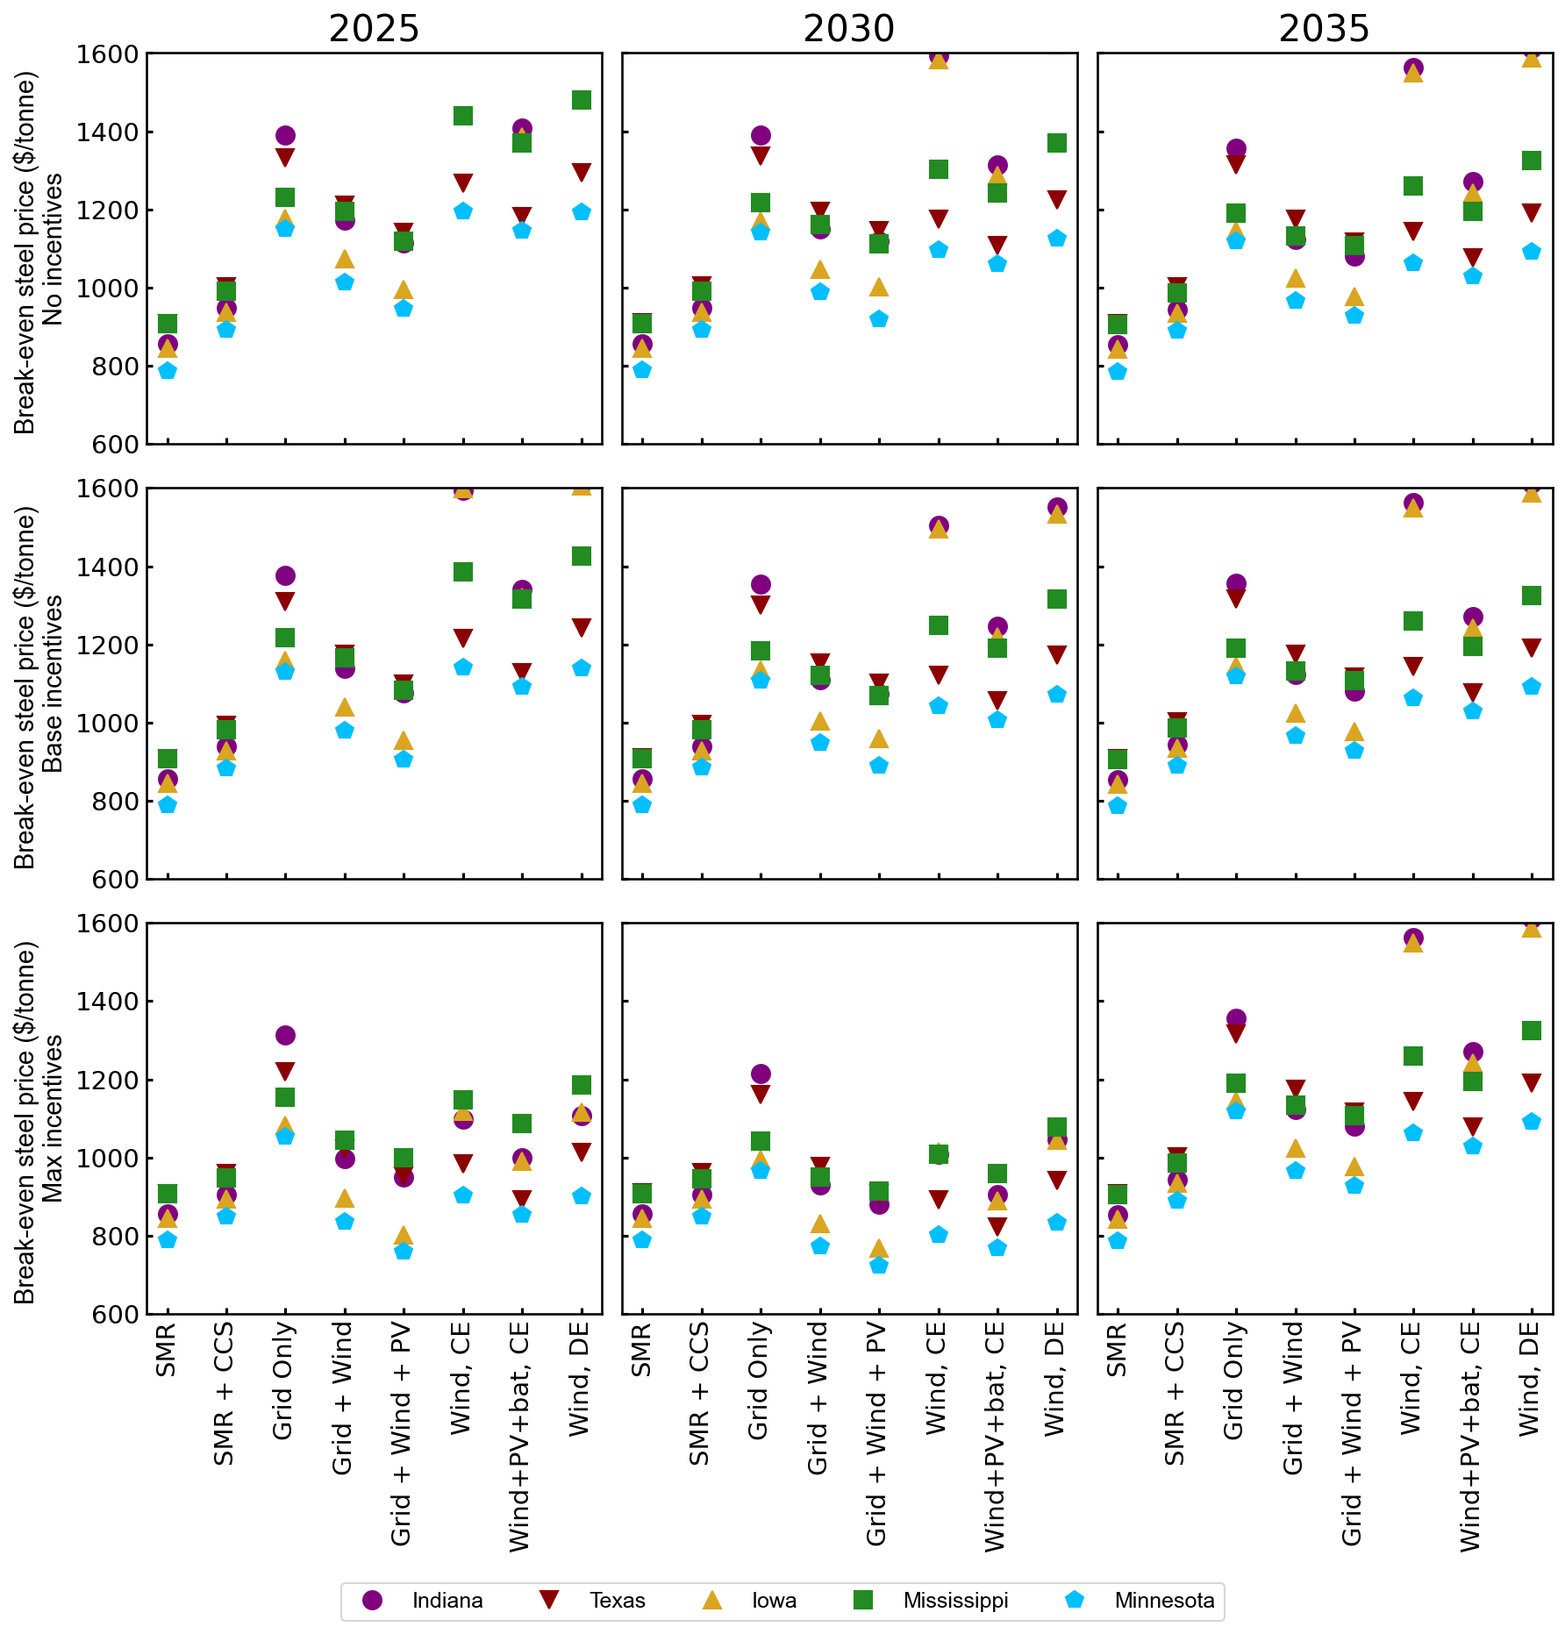
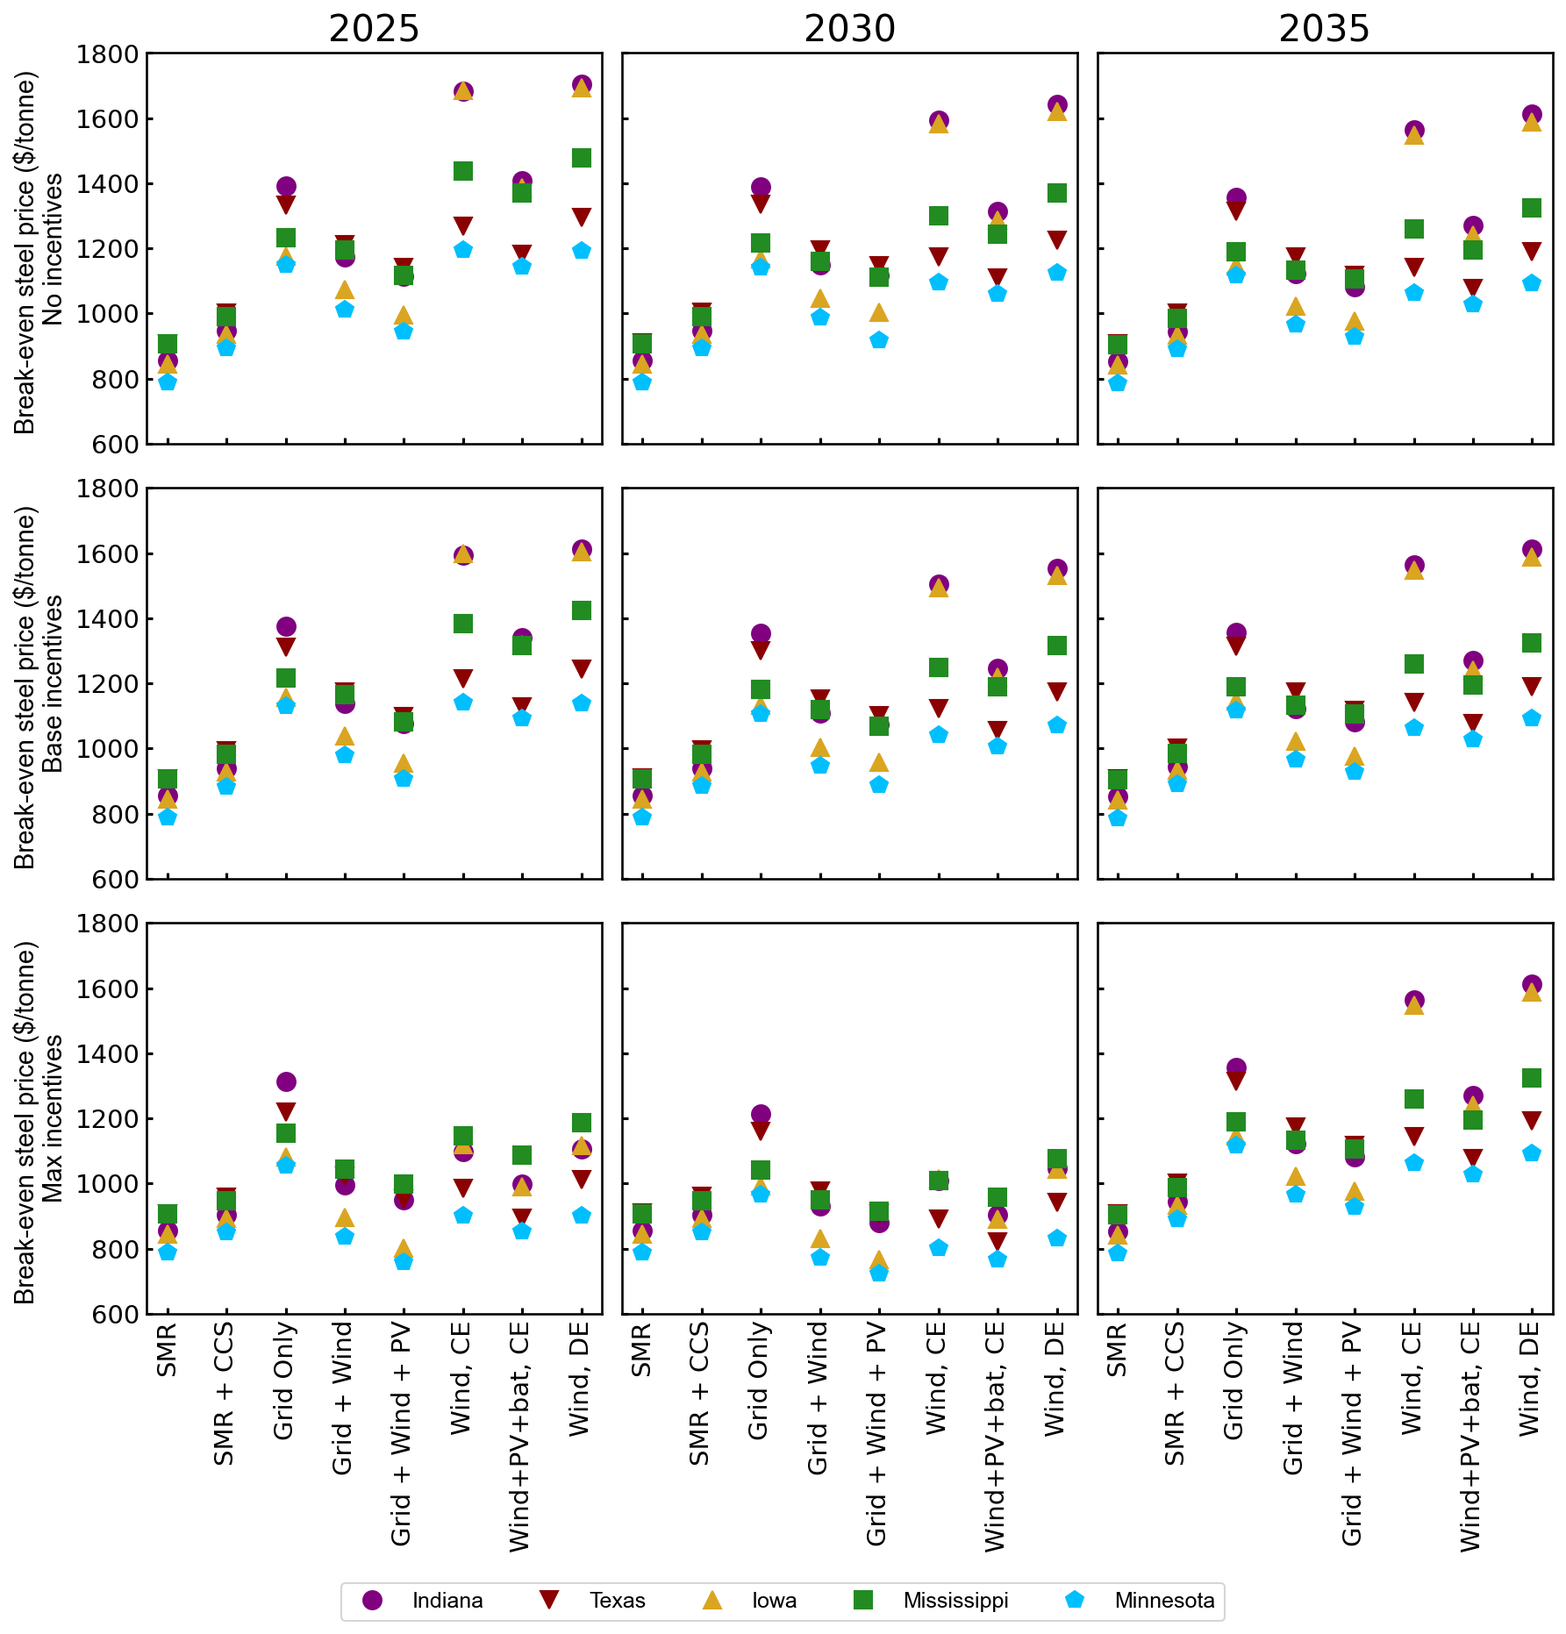
Updated incentives and implemented solar ITC toggle

diff --git a/src/ereznic2/run_profast_for_hydrogen.py b/src/ereznic2/run_profast_for_hydrogen.py
@@ -22,8 +22,8 @@ pf = ProFAST.ProFAST()
 def run_profast_for_hydrogen(hopp_dict,electrolyzer_size_mw,H2_Results,\
                             electrolyzer_system_capex_kw,user_defined_time_between_replacement,electrolyzer_energy_kWh_per_kg,hydrogen_storage_capacity_kg,hydrogen_storage_cost_USDprkg,\
                             capex_desal,opex_desal,plant_life,water_cost,wind_size_mw,solar_size_mw,storage_size_mw,renewable_plant_cost_info,wind_om_cost_kw,hybrid_plant,\
-                            grid_connection_scenario, atb_year, site_name, policy_option, energy_to_electrolyzer, combined_pv_wind_power_production_hopp,combined_pv_wind_curtailment_hopp,\
-                            energy_shortfall_hopp, elec_price,grid_prices_interpolated_USDperkwh, grid_price_scenario,user_defined_stack_replacement_time,use_optimistic_pem_efficiency):
+                            grid_connection_scenario, atb_year, site_name, policy_option, policy, energy_to_electrolyzer, combined_pv_wind_power_production_hopp,combined_pv_wind_curtailment_hopp,\
+                            energy_shortfall_hopp, elec_price,grid_prices_interpolated_USDperkwh, grid_price_scenario,user_defined_stack_replacement_time,use_optimistic_pem_efficiency,wind_annual_energy_MWh,solar_annual_energy_MWh,solar_ITC): 
     # mwh_to_kwh = 0.001
     # plant_life=useful_life
     # electrolyzer_system_capex_kw = electrolyzer_capex_kw
@@ -105,6 +105,7 @@ def run_profast_for_hydrogen(hopp_dict,electrolyzer_size_mw,H2_Results,\
         energy_from_grid_pr_yr = energy_used_per_year_kWhpryr - AEP_renewables
         # grid_electricity_useage_kWhpkg=np.mean(energy_from_grid_pr_yr/h2prod_per_year_kgpryr)
         ren_electricity_useage_kWhpkg = AEP_renewables/h2prod_per_year_kgpryr
+        wind_electricity_useage_kWhpkg = wind_annual_energy_MWh*1000/h2prod_per_year_kgpryr
         ren_frac = AEP_renewables/energy_used_per_year_kWhpryr
         grid_cost_pr_yr_USDprkg = grid_price_per_yr*energy_from_grid_pr_yr/h2prod_per_year_kgpryr
         grid_prices_interpolated_USDperkg = dict(zip(grid_cost_keys,grid_cost_pr_yr_USDprkg))
@@ -114,6 +115,7 @@ def run_profast_for_hydrogen(hopp_dict,electrolyzer_size_mw,H2_Results,\
         # grid_electricity_useage_kWhpkg=0
         ren_frac = 1
         ren_electricity_useage_kWhpkg =AEP_renewables/h2prod_per_year_kgpryr
+        wind_electricity_useage_kWhpkg = wind_annual_energy_MWh*1000/h2prod_per_year_kgpryr
         grid_prices_interpolated_USDperkg = dict(zip(grid_cost_keys,np.zeros(len(grid_cost_keys))))
     #new changes end here
 
@@ -134,18 +136,30 @@ def run_profast_for_hydrogen(hopp_dict,electrolyzer_size_mw,H2_Results,\
                 if policy_option == 'no-policy':
                     Ren_PTC[year] = 0
                 elif policy_option == 'base':
-                    Ren_PTC[year] = 0.0051 * ren_electricity_useage_kWhpkg[y_idx]#np.sum(energy_to_electrolyzer)/ (H2_Results['hydrogen_annual_output'])
+                    if solar_ITC == True:
+                        Ren_PTC[year] = policy['Wind PTC'] * wind_electricity_useage_kWhpkg[y_idx]
+                    else:
+                        Ren_PTC[year] = policy['Wind PTC'] * ren_electricity_useage_kWhpkg[y_idx]#np.sum(energy_to_electrolyzer)/ (H2_Results['hydrogen_annual_output'])
                 elif policy_option == 'max':
-                    Ren_PTC[year] = 0.03072 * ren_electricity_useage_kWhpkg[y_idx]#np.sum(energy_to_electrolyzer)/ (H2_Results['hydrogen_annual_output'])
+                    if solar_ITC == True:
+                        Ren_PTC[year] = policy['Wind PTC'] * wind_electricity_useage_kWhpkg[y_idx]
+                    else:
+                        Ren_PTC[year] = policy['Wind PTC'] * ren_electricity_useage_kWhpkg[y_idx]#np.sum(energy_to_electrolyzer)/ (H2_Results['hydrogen_annual_output'])
             elif grid_connection_scenario == 'hybrid-grid':
                 electrolysis_total_EI_policy[year] = 0 # Basically this is not used for hybrid-grid
                 if policy_option == 'no-policy':
                     Ren_PTC[year] = 0
                 elif policy_option == 'base':
-                    Ren_PTC[year] = 0.0051  * ren_electricity_useage_kWhpkg[y_idx]#energy_from_renewables / (H2_Results['hydrogen_annual_output'])
+                    if solar_ITC == True:
+                        Ren_PTC[year] = policy['Wind PTC'] * wind_electricity_useage_kWhpkg[y_idx]
+                    else:
+                        Ren_PTC[year] = policy['Wind PTC']  * ren_electricity_useage_kWhpkg[y_idx]#energy_from_renewables / (H2_Results['hydrogen_annual_output'])
                     #Ren_PTC = 0.0051  * np.sum(energy_to_electrolyzer)/ (H2_Results['hydrogen_annual_output']) # We will need to fix this by introducing ren_frac multiplier to denominator when HOPP changes to dealing with grid cases are changed
                 elif policy_option == 'max':
-                    Ren_PTC[year] = 0.03072 * ren_electricity_useage_kWhpkg[y_idx]#energy_from_renewables/ (H2_Results['hydrogen_annual_output'])
+                    if solar_ITC == True:
+                        Ren_PTC[year] = policy['Wind PTC'] * wind_electricity_useage_kWhpkg[y_idx]
+                    else:
+                        Ren_PTC[year] = policy['Wind PTC'] * ren_electricity_useage_kWhpkg[y_idx]#energy_from_renewables/ (H2_Results['hydrogen_annual_output'])
                     # Ren_PTC = 0.03072 * np.sum(energy_to_electrolyzer)/ (H2_Results['hydrogen_annual_output']) # We will need to fix this by introducing ren_frac multiplier to denominator when HOPP changes to dealing with grid cases are changed
         elif atb_year == 2035:
                 Ren_PTC[year]=0
@@ -366,7 +380,10 @@ def run_profast_for_hydrogen(hopp_dict,electrolyzer_size_mw,H2_Results,\
     pf.set_params('debt type','Revolving debt')
     pf.set_params('debt interest rate',financial_assumptions['debt interest rate'])
     pf.set_params('cash onhand',financial_assumptions['cash onhand'])
-    pf.set_params('one time cap inct',{'value':ITC*(capex_storage_installed+capex_battery_installed),'depr type':'MACRS','depr period':7,'depreciable':True})
+    if solar_ITC == True:
+        pf.set_params('one time cap inct',{'value':ITC*(capex_storage_installed+capex_battery_installed+capex_solar_installed),'depr type':'MACRS','depr period':7,'depreciable':True})
+    else:
+        pf.set_params('one time cap inct',{'value':ITC*(capex_storage_installed+capex_battery_installed),'depr type':'MACRS','depr period':7,'depreciable':True})
     #pf.set_params('one time cap inct',{'value':ITC*capex_solar_installed,'depr type':'MACRS','depr period':7,'depreciable':True})
     #pf.set_params('one time cap inct',{'value':ITC*capex_battery_installed,'depr type':'MACRS','depr period':7,'depreciable':True})
 

diff --git a/src/ereznic2/green_steel_ammonia_solar_parametric_sweep.py b/src/ereznic2/green_steel_ammonia_solar_parametric_sweep.py
@@ -57,7 +57,7 @@ def solar_storage_param_sweep(project_path,arg_list,save_best_solar_case_pickle,
     5. Model Development Required:
     - Floating Electrolyzer Platform
     """
-    [atb_year, policy_option,hopp_dict_init,
+    [atb_year, policy_option,policy,hopp_dict_init,
      electrolysis_scale,scenario,\
      parent_path,results_dir,\
      grid_connected_hopp,grid_connection_scenario, grid_price_scenario,\
@@ -67,7 +67,7 @@ def solar_storage_param_sweep(project_path,arg_list,save_best_solar_case_pickle,
      electrolyzer_size_mw,n_pem_clusters,pem_control_type,
      electrolyzer_capex_kw,electrolyzer_component_costs_kw,wind_plant_degradation_power_decrease,electrolyzer_energy_kWh_per_kg, time_between_replacement,
      user_defined_stack_replacement_time,use_optimistic_pem_efficiency,electrolyzer_degradation_penalty,storage_capacity_multiplier,hydrogen_production_capacity_required_kgphr,\
-     electrolyzer_model_parameters,electricity_production_target_MWhpyr,turbine_rating,electrolyzer_degradation_power_increase,cluster_cap_mw,interconnection_size_mw] = arg_list
+     electrolyzer_model_parameters,electricity_production_target_MWhpyr,turbine_rating,electrolyzer_degradation_power_increase,cluster_cap_mw,interconnection_size_mw,solar_ITC] = arg_list
 
     electrolyzer_installation_factor = 12/100
     electrolyzer_direct_cost_kw = electrolyzer_capex_kw*(1+electrolyzer_installation_factor)
@@ -415,7 +415,19 @@ def solar_storage_param_sweep(project_path,arg_list,save_best_solar_case_pickle,
                 plot_grid,
             )
 
+            if solar_size_mw > 0:
+                cf_solar = hybrid_plant.pv.capacity_factor/100
+                solar_annual_energy_MWh = hybrid_plant.annual_energies['pv']/1000
+            else:
+                cf_solar = 0
+                solar_annual_energy_MWh = 0
 
+            if wind_size_mw > 0:
+                cf_wind = hybrid_plant.wind.capacity_factor/100
+                wind_annual_energy_MWh = hybrid_plant.annual_energies['wind']/1000
+            else:
+                cf_wind = 0
+                wind_annual_energy_MWh = 0
 
             # Step #: Calculate hydrogen pipe costs for distributed case
             if electrolysis_scale == 'Distributed':
@@ -579,8 +591,8 @@ def solar_storage_param_sweep(project_path,arg_list,save_best_solar_case_pickle,
             h2_solution,h2_summary,h2_price_breakdown,lcoh_breakdown,electrolyzer_installed_cost_kw,elec_cf,ren_frac,electrolyzer_total_EI_policy_grid,electrolysis_total_EI_policy_offgrid,H2_PTC,Ren_PTC,h2_production_capex = run_profast_for_hydrogen. run_profast_for_hydrogen(hopp_dict,electrolyzer_size_mw,H2_Results,\
                                             electrolyzer_capex_kw,time_between_replacement,electrolyzer_energy_kWh_per_kg,hydrogen_storage_capacity_kg,hydrogen_storage_cost_USDprkg,\
                                             desal_capex,desal_opex,useful_life,water_cost,wind_size_mw,solar_size_mw,storage_size_mw,renewable_plant_cost,wind_om_cost_kw,grid_connected_hopp,\
-                                            grid_connection_scenario, atb_year, site_name, policy_option, electrical_generation_timeseries, combined_pv_wind_power_production_hopp,combined_pv_wind_curtailment_hopp,\
-                                            energy_shortfall_hopp,elec_price, grid_prices_interpolated_USDperkwh,grid_price_scenario,user_defined_stack_replacement_time,use_optimistic_pem_efficiency)
+                                            grid_connection_scenario, atb_year, site_name, policy_option,policy,electrical_generation_timeseries, combined_pv_wind_power_production_hopp,combined_pv_wind_curtailment_hopp,\
+                                            energy_shortfall_hopp,elec_price, grid_prices_interpolated_USDperkwh,grid_price_scenario,user_defined_stack_replacement_time,use_optimistic_pem_efficiency,wind_annual_energy_MWh,solar_annual_energy_MWh,solar_ITC)
 
             lcoh_init = h2_solution['price']
             if save_param_sweep_summary:

diff --git a/src/ereznic2/green_steel_ammonia_run_scenarios.py b/src/ereznic2/green_steel_ammonia_run_scenarios.py
@@ -64,7 +64,8 @@ def batch_generator_kernel(arg_list):
         run_pv_battery_sweep,
         electrolyzer_degradation_penalty,
         pem_control_type,
-        storage_capacity_multiplier
+        storage_capacity_multiplier,
+        solar_ITC
     ] = arg_list
 
     hopp_path = os.path.dirname(os.path.abspath(hopp.__file__))
@@ -480,7 +481,7 @@ def batch_generator_kernel(arg_list):
     if grid_connection_scenario !='grid-only':
         if run_pv_battery_sweep:
 
-            inputs_for_sweep=[atb_year,policy_option,hopp_dict,\
+            inputs_for_sweep=[atb_year,policy_option,policy[i],hopp_dict,\
             electrolysis_scale,scenario,project_path,results_dir,\
             grid_connected_hopp,grid_connection_scenario,grid_price_scenario,\
             site_df,sample_site,site,site_location,\
@@ -489,7 +490,7 @@ def batch_generator_kernel(arg_list):
             electrolyzer_size_mw,n_pem_clusters,pem_control_type,\
             electrolyzer_capex_kw,electrolyzer_component_costs_kw,wind_plant_degradation_power_decrease,electrolyzer_energy_kWh_per_kg,time_between_replacement,\
             user_defined_stack_replacement_time,use_optimistic_pem_efficiency,electrolyzer_degradation_penalty,storage_capacity_multiplier,hydrogen_production_capacity_required_kgphr,\
-            electrolyzer_model_parameters,electricity_production_target_MWhpyr,turbine_rating,electrolyzer_degradation_power_increase,cluster_cap_mw,interconnection_size_mw]
+            electrolyzer_model_parameters,electricity_production_target_MWhpyr,turbine_rating,electrolyzer_degradation_power_increase,cluster_cap_mw,interconnection_size_mw,solar_ITC]
             #if solar and battery size lists are set to 'None' then defaults will be used
             #
             lcoh,hopp_dict,best_result_data,param_sweep_tracker,combined_pv_wind_power_production_hopp,combined_pv_wind_storage_power_production_hopp,\
@@ -952,8 +953,8 @@ def batch_generator_kernel(arg_list):
         h2_solution,h2_summary,profast_h2_price_breakdown,lcoh_breakdown,electrolyzer_installed_cost_kw,elec_cf,ren_frac,electrolysis_total_EI_policy_grid,electrolysis_total_EI_policy_offgrid,H2_PTC,Ren_PTC,h2_production_capex = run_profast_for_hydrogen. run_profast_for_hydrogen(hopp_dict,electrolyzer_size_mw,H2_Results,\
                                         electrolyzer_capex_kw,time_between_replacement,electrolyzer_energy_kWh_per_kg,hydrogen_storage_capacity_kg,hydrogen_storage_cost_USDprkg,\
                                         desal_capex,desal_opex,useful_life,water_cost,wind_size_mw,solar_size_mw,storage_size_mw,renewable_plant_cost,wind_om_cost_kw,grid_connected_hopp,\
-                                        grid_connection_scenario,atb_year, site_name, policy_option, electrical_generation_timeseries, combined_pv_wind_storage_power_production_hopp,combined_pv_wind_curtailment_hopp,\
-                                        energy_shortfall_hopp,elec_price,grid_prices_interpolated_USDperkwh, grid_price_scenario,user_defined_stack_replacement_time,use_optimistic_pem_efficiency)
+                                        grid_connection_scenario,atb_year, site_name, policy_option, policy[i],electrical_generation_timeseries, combined_pv_wind_storage_power_production_hopp,combined_pv_wind_curtailment_hopp,\
+                                        energy_shortfall_hopp,elec_price,grid_prices_interpolated_USDperkwh, grid_price_scenario,user_defined_stack_replacement_time,use_optimistic_pem_efficiency,wind_annual_energy_MWh,solar_annual_energy_MWh,solar_ITC)
 
         lcoh = h2_solution['price']
 

diff --git a/src/ereznic2/green_steel_ammonia_define_scenarios.py b/src/ereznic2/green_steel_ammonia_define_scenarios.py
@@ -52,6 +52,9 @@ wind_plant_degradation_power_decrease = 0.08
 # Determine if run with electrolyzer degradation or not
 electrolyzer_degradation_penalty = True
 
+# Determine if using solar PTC or ITC
+solar_ITC = True
+
 # Determine if PEM stack operation is optimized or not
 pem_control_type = 'basic' #use 'optimize' for Sanjana's controller; 'basic' to not optimize
 
@@ -75,14 +78,9 @@ if __name__ == '__main__':
                 ]
 
     policy = {
-        'no-policy': {'Wind ITC': 0, 'Wind PTC': 0, "H2 PTC": 0, 'Storage ITC': 0},
-        #'base': {'Wind ITC': 0, 'Wind PTC': 0.0051, "H2 PTC": 0.6, 'Storage ITC': 0.06},
-        #'max': {'Wind ITC': 0, 'Wind PTC': 0.03072, "H2 PTC": 3.0, 'Storage ITC': 0.5},
-        # 'max on grid hybrid': {'Wind ITC': 0, 'Wind PTC': 0.0051, "H2 PTC": 0.60, 'Storage ITC': 0.06},
-        # 'max on grid hybrid': {'Wind ITC': 0, 'Wind PTC': 0.026, "H2 PTC": 0.60, 'Storage ITC': 0.5},
-        # 'option 3': {'Wind ITC': 0.06, 'Wind PTC': 0, "H2 PTC": 0.6},
-        # 'option 4': {'Wind ITC': 0.3, 'Wind PTC': 0, "H2 PTC": 3},
-        # 'option 5': {'Wind ITC': 0.5, 'Wind PTC': 0, "H2 PTC": 3},
+        #'no-policy': {'Wind ITC': 0, 'Wind PTC': 0, "H2 PTC": 0, 'Storage ITC': 0},
+        'base': {'Wind ITC': 0, 'Wind PTC':  0.0055341, "H2 PTC": 0.6, 'Storage ITC': 0.06},
+        #'max': {'Wind ITC': 0, 'Wind PTC': 0.0332046, "H2 PTC": 3.0, 'Storage ITC': 0.5},
     }
 
 
@@ -100,9 +98,9 @@ if __name__ == '__main__':
                           ]
 
     grid_connection_cases = [
-                            'off-grid',
+                            #'off-grid',
                             #'grid-only',
-                            #'hybrid-grid'
+                            'hybrid-grid'
                             ]
 
     storage_capacity_cases = [
@@ -112,7 +110,7 @@ if __name__ == '__main__':
                             ]
 
     num_pem_stacks= 6 # Doesn't actually do anything
-    run_solar_param_sweep=False
+    run_solar_param_sweep=True
 #---- Create list of arguments to pass to batch generator kernel --------------
     arg_list = []
     for i in policy:
@@ -126,10 +124,10 @@ if __name__ == '__main__':
                                             direct_coupling,electrolyzer_cost_case,electrolyzer_degradation_power_increase,wind_plant_degradation_power_decrease,\
                                                 steel_annual_production_rate_target_tpy,project_path,results_dir,fin_sum_dir,energy_profile_dir,price_breakdown_dir,rodeo_output_dir,floris_dir,renewable_cost_path,\
                                             save_hybrid_plant_yaml,save_model_input_yaml,save_model_output_yaml,num_pem_stacks,run_solar_param_sweep,electrolyzer_degradation_penalty,\
-                                                pem_control_type,storage_capacity_multiplier])
+                                                pem_control_type,storage_capacity_multiplier,solar_ITC])
     for runs in range(len(arg_list)):
         batch_generator_kernel(arg_list[runs])
     []
 # ------------------ Run HOPP-RODeO/PyFAST Framework to get LCOH ---------------
-    # with Pool(processes=8) as pool:
+    # with Pool(processes=8,maxtasksperchild=1) as pool:
     #         pool.map(batch_generator_kernel, arg_list)

diff --git a/src/ereznic2/green_steel_ammonia_regionalsensitivity_all_usecases_allyears.py b/src/ereznic2/green_steel_ammonia_regionalsensitivity_all_usecases_allyears.py
@@ -177,7 +177,7 @@ for axi1,policy in enumerate(policy_cases):
         if axi2==0:
             ax1[axi1,axi2].set_ylabel('Break-even steel price ($/tonne) \n' + policy_strings[policy], fontname = font, fontsize = axis_label_size)
             #ax[axi1,axi2].text(1,1350,policy_strings[policy],fontname=font,fontsize=axis_label_size,bbox={'facecolor':'none','edgecolor':'black','pad': 10})
-        ax1[axi1,axi2].set_ylim([600,1600])
+        ax1[axi1,axi2].set_ylim([600,1800])
         ax1[axi1,axi2].tick_params(axis = 'y',labelsize = tickfontsize,direction = 'in',width=1.5)
         ax1[axi1,axi2].tick_params(axis = 'x',labelsize = tickfontsize,direction = 'in',width=1.5,rotation=90)
         steel_handles,steel_labels = ax1[axi1,axi2].get_legend_handles_labels()
